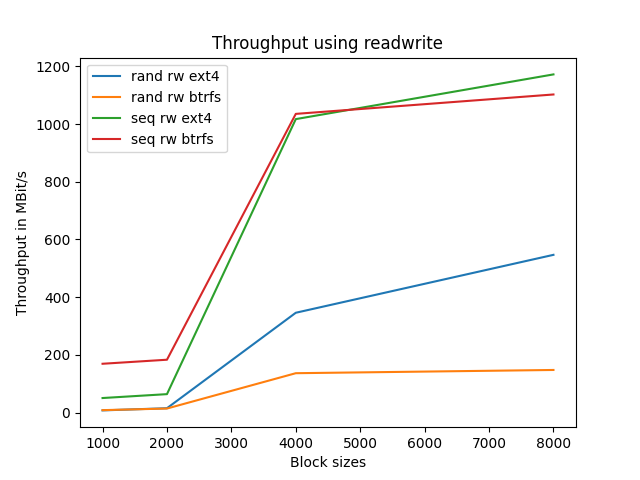
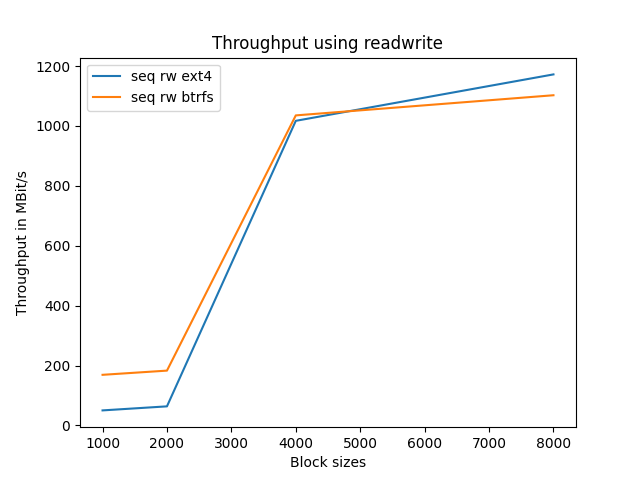
Adjust benchmark and plotting for new 1 volume behaviour

diff --git a/task3/taskB/plot_seq_rand.py b/task3/taskB/plot_seq_rand.py
@@ -26,10 +26,7 @@ def convert_job_name_to_graph_name(js: str):
     return js_list[0] + ' ' + js_list[1] + ' ' + job_name
 
 
-def read_from_file(file_name: str):
-    my_file = open(file_name)
-    my_dict = json.load(my_file)
-
+def read_from_file(file_name_tuple):
     btrfs_read = []
     btrfs_write = []
     ext4_read = []
@@ -37,24 +34,28 @@ def read_from_file(file_name: str):
 
     result = []
 
-    for jobs in my_dict['jobs']:
-        read = jobs['read']
-        write = jobs['write']
-        if not read['bw'] == 0:
-            data_point = (convert_bs_to_number(jobs['job options']['bs']), read['bw_bytes'] / pow(2,20),
-                          convert_job_name_to_graph_name(jobs['job options']['name']))
-            if 'btrfs' in jobs['jobname']:
-                btrfs_read.append(data_point)
-            if 'ext4' in jobs['jobname']:
-                ext4_read.append(data_point)
+    for file_name in file_name_tuple:
+        my_file = open(file_name)
+        my_dict = json.load(my_file)
 
-        if not write['bw'] == 0:
-            data_point = (convert_bs_to_number(jobs['job options']['bs']), write['bw_bytes'] / pow(2,20),
+        for jobs in my_dict['jobs']:
+            read = jobs['read']
+            write = jobs['write']
+            if not read['bw'] == 0:
+                data_point = (convert_bs_to_number(jobs['job options']['bs']), read['bw_bytes'] / pow(2,20),
                           convert_job_name_to_graph_name(jobs['job options']['name']))
-            if 'btrfs' in jobs['jobname']:
-                btrfs_write.append(data_point)
-            if 'ext4' in jobs['jobname']:
-                ext4_write.append(data_point)
+                if 'btrfs' in jobs['jobname']:
+                    btrfs_read.append(data_point)
+                if 'ext4' in jobs['jobname']:
+                    ext4_read.append(data_point)
+
+            if not write['bw'] == 0:
+                data_point = (convert_bs_to_number(jobs['job options']['bs']), write['bw_bytes'] / pow(2,20),
+                          convert_job_name_to_graph_name(jobs['job options']['name']))
+                if 'btrfs' in jobs['jobname']:
+                    btrfs_write.append(data_point)
+                if 'ext4' in jobs['jobname']:
+                    ext4_write.append(data_point)
     if ext4_read:
         result.append(ext4_read)
     if ext4_write and not ext4_read:
@@ -66,11 +67,20 @@ def read_from_file(file_name: str):
 
     return result
 
+def pairwise(it):
+    it = iter(it)
+    while True:
+        try:
+            yield next(it), next(it)
+        except StopIteration:
+            # no more elements in the iterator
+            return
+
 
 def get_data_for_app(files):
     data = []
-    for file_name in files:
-        data.append(read_from_file("results/" + file_name))
+    for file_name1, file_name2 in pairwise(files):
+        data.append(read_from_file(["results/" + file_name1, "results/" + file_name2]))
 
     return data
 
@@ -98,7 +108,7 @@ def generate_plot(files, operation):
 
 
 def generate_plot_for_each_graph(plot_type: str):
-    files = ['rand' + plot_type + '.json', 'seq' + plot_type + '.json']
+    files = ['rand' + plot_type + '_ext4.json', 'rand' + plot_type + '_btrfs.json' , 'seq' + plot_type + '_ext4.json','seq' + plot_type + '_btrfs.json']
 
     generate_plot(files, plot_type)
 

diff --git a/task3/taskB/plot_vardepth.py b/task3/taskB/plot_vardepth.py
@@ -14,9 +14,6 @@ def convert_job_name_to_graph_name(js: str):
 
 
 def read_from_file(file_name: str):
-    my_file = open(file_name)
-    my_dict = json.load(my_file)
-
     btrfs_read = []
     btrfs_write = []
     ext4_read = []
@@ -24,24 +21,30 @@ def read_from_file(file_name: str):
 
     result = []
 
-    for jobs in my_dict['jobs']:
-        read = jobs['read']
-        write = jobs['write']
-        if not read['bw'] == 0:
-            data_point = (int(jobs['job options']['iodepth']), read['bw'] / 1024,
-                          convert_job_name_to_graph_name(jobs['job options']['name']))
-            if 'btrfs' in jobs['jobname']:
-                btrfs_read.append(data_point)
-            if 'ext4' in jobs['jobname']:
-                ext4_read.append(data_point)
+    for file_name in file_name_tuple:
+        my_file = open(file_name)
+        my_dict = json.load(my_file)
 
-        if not write['bw'] == 0:
-            data_point = (int(jobs['job options']['iodepth']), write['bw'] / 1024,
+
+
+        for jobs in my_dict['jobs']:
+            read = jobs['read']
+            write = jobs['write']
+            if not read['bw'] == 0:
+                data_point = (int(jobs['job options']['iodepth']), read['bw'] / 1024,
                           convert_job_name_to_graph_name(jobs['job options']['name']))
-            if 'btrfs' in jobs['jobname']:
-                btrfs_write.insert(0, data_point) if data_point[0] == 2000 else btrfs_write.append(data_point)
-            if 'ext4' in jobs['jobname']:
-                ext4_write.insert(0, data_point) if data_point[0] == 2000 else ext4_write.append(data_point)
+                if 'btrfs' in jobs['jobname']:
+                    btrfs_read.append(data_point)
+                if 'ext4' in jobs['jobname']:
+                    ext4_read.append(data_point)
+
+            if not write['bw'] == 0:
+                data_point = (int(jobs['job options']['iodepth']), write['bw'] / 1024,
+                          convert_job_name_to_graph_name(jobs['job options']['name']))
+                if 'btrfs' in jobs['jobname']:
+                    btrfs_write.insert(0, data_point) if data_point[0] == 2000 else btrfs_write.append(data_point)
+                if 'ext4' in jobs['jobname']:
+                    ext4_write.insert(0, data_point) if data_point[0] == 2000 else ext4_write.append(data_point)
 
     if ext4_read:
         result.append(ext4_read)
@@ -63,7 +66,7 @@ def get_data_for_app(files):
     return data
 
 
-def generate_plot(file):
+def generate_plot(files):
     grouped_data = read_from_file(file)
 
     for result_data in grouped_data:
@@ -83,4 +86,4 @@ def generate_plot(file):
 
 
 if __name__ == "__main__":
-    generate_plot("results/vardepth.json")
+    generate_plot(["results/vardepth_btrfs.json", "results/vardepth_ext4.json"])
